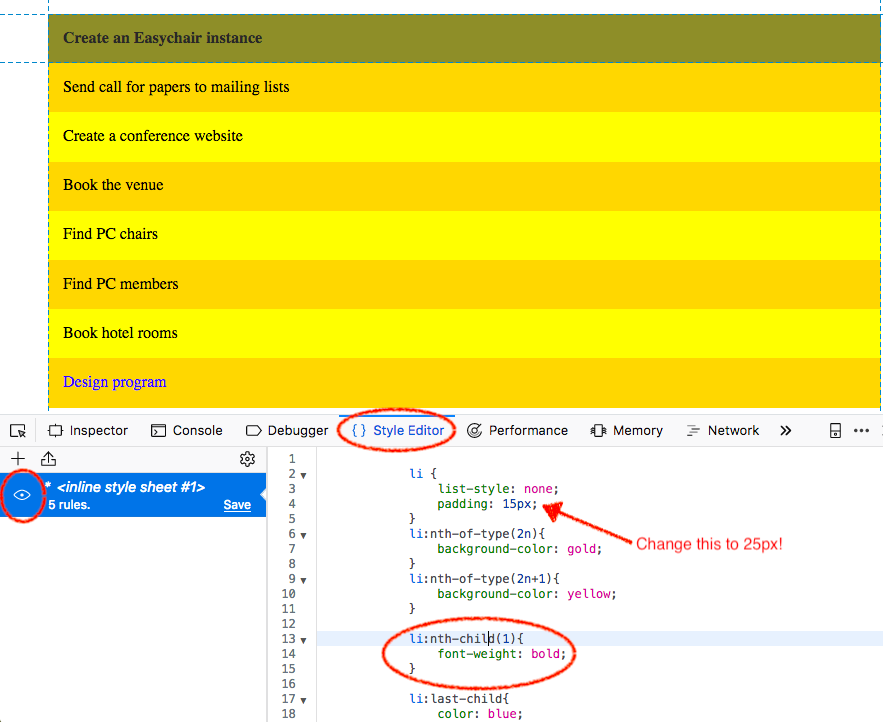
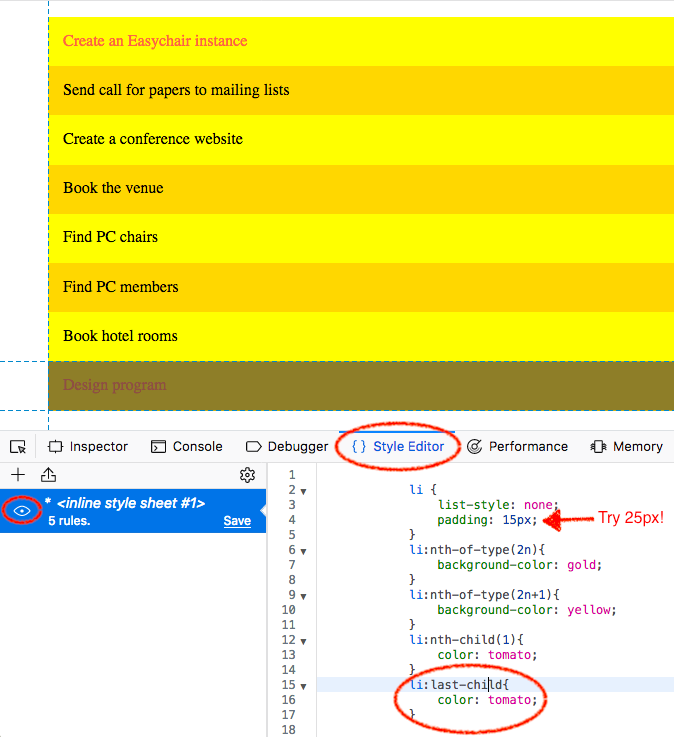
L5 finalized

Changed region(s): [[0.0, 0.0, 1.0, 1.0], [0.8412, 0.8227, 0.9036, 0.8532]]

diff --git a/Lecture-5.md b/Lecture-5.md
@@ -8,6 +8,10 @@
 - [Take-aways of book chapter 3](#take-aways-of-book-chapter-3)
 - [Pseudo-classes](#pseudo-classes)
   - [:bangbang: nth-child(X) and nth-of-type(X)](#bangbang-nth-childx-and-nth-of-typex)
+  - [:bangbang: root](#bangbang-root)
+  - [:bangbang: hover and active](#bangbang-hover-and-active)
+  - [:bangbang: enabled and disabled](#bangbang-enabled-and-disabled)
+  - [:bangbang: not](#bangbang-not)
 - [Pseudo-elements](#pseudo-elements)
 - [Data in CSS](#data-in-css)
 - [Element positioning](#element-positioning)
@@ -95,19 +99,19 @@ selector:pseudo-class {
 
 Imagine you have a list of twenty todo items and you want to alternate the todo items' background color (to make it easier to read them). Two simple ways to go about this are:
 
-- You can "hardcode" the CSS rule of every element, ending up with twenty rules. This is not maintainable.
-- You write two CSS rules (one per background color), assign each to a class and then alternate in the todo items class assignment. Better, than the first option, but the redundancy remains.
+- You can *hardcode* the CSS rule of every element, ending up with twenty rules. This is not maintainable.
+- You write two CSS rules (one per background color), assign each to a class and then alternate in the todo items class assignment. Better than the first option, but the redundancy remains.
 
-Ideally, we only create two CSS rules and solve the rest (alternate assignment of background colors) with pseudo-classes. And that's exactly what we can do with the first two pseudo-classes we introduce next.
+Ideally, we only create two CSS rules and solve the rest (alternate assignment of background colors) with pseudo-classes. And that's exactly what we can do with the two pseudo-classes we introduce next.
 
 ### :bangbang: nth-child(X) and nth-of-type(X)
 
-- `nth-child(X)` is any element that is the Xth **child element** of its parent;
-- `nth-of-type(X)` is any element that is the Xth **sibling** of its type.
+- [`nth-child(X)`](https://developer.mozilla.org/en-US/docs/Web/CSS/:nth-child) is any element that is the Xth **child element** of its parent;
+- [`nth-of-type(X)`](https://developer.mozilla.org/en-US/docs/Web/CSS/:nth-of-type) is any element that is the Xth **sibling** of its type.
 
-In both cases, `X` can be an integer or formula, e.g `2n+1`, where `n` represents a number starting at 0 and incrementing. Instead of `2n` and `2n+`1 we can also use `even` and `odd` as shortcuts.
+In both cases, `X` can be an integer or formula, e.g `2n+1`, where `n` represents a number starting at 0 and incrementing. Instead of `2n` and `2n+1` we can also use `even` and `odd` as shortcuts. If we want to start counting elements in reverse order, we can use the analogous `nth-last-child(X)` and `nth-last-of-type(X)` pseudo-classes.
 
-If we are aiming at the first and/or last child or sibling element, we can also use a different set of pseudo-classes (shortcuts):
+If we are aiming at the first and/or last child or sibling element, we also have additional shortcut pseudo-classes:
 
 | Pseudo-class   | Equivalent to        |
 |----------------|----------------------|
@@ -134,10 +138,10 @@ In the following example both pseudo-classes (`nth-child` and `nth-of-type`) are
                 background-color: yellow;
             }
             li:nth-child(1){
-                font-weight: bold;
+                color: tomato;
             }
             li:last-child{
-                color: blue;
+                color: tomato;
             }
         </style>
     </head>
@@ -156,28 +160,23 @@ In the following example both pseudo-classes (`nth-child` and `nth-of-type`) are
 </html>
 ```
 
-This piece of code is rendered as follows:
+This piece of code is rendered with alternating background colors as was our goal (try it out for yourself!). If we open Firefox's [Style Editor](https://developer.mozilla.org/en-US/docs/Tools/Style_Editor) we now see the following:
 
 ![CSS pseudo-class](img/L5-pseudo-classes.png)
 
-<sub>Firefox browser tab with an open [Style Editor](https://developer.mozilla.org/en-US/docs/Tools/Style_Editor).</sub>
-
-The `li:nth-of-type(2n)` rule says that even list elements have a `gold` background, odd list elements (`2n+1`) have a yellow background. The screenshot above also shows off Firefox's Style Editor: it allows you to not only inspect the CSS, but to also:
+The Style Editor allows us to not only inspect the CSS, but to also:
 
 - switch off the CSS (with a click on the "eye" symbol on the left);
 - hover over a CSS rule to see what part of the rendering it affects (the screenshot was taken when the mouse hovered over `li:nth-child(1)`);
 - **change the CSS** in the editor and view the immediate effect of those changes.
 
-The last point is vital for efficient CSS styling: instead of coding, saving and opening your HTML file in the browser, you can prototype your CSS rules directly in the browser. Try it out for yourself! Just do not forget to then copy the new rules to your original CSS file as those changes are lost when the style editor is closed.
+The last point is vital for efficient CSS styling: instead of coding, saving and opening your HTML file in the browser, you can prototype your CSS rules directly in the browser. Try it out for yourself! Just do not forget to then copy the new rules to your original CSS file as those changes are lost when the Style Editor is closed.
 
+### :bangbang: root
 
+One of the often voiced complaints about CSS used to be the lack of variable support (and thus languages that compile into CSS were born, e.g. [Sass](https://sass-lang.com/)) - in the example above :point_up:, we set the same color value of `tomato` in two CSS rules (if you are interested in why we have such a seemingly random collection of color names on the web, [head over to this Wikipedia overview](https://en.wikipedia.org/wiki/X11_color_names)). If we now decide to change that color value, we would have to manually walk over all style sheets and alter it. Clearly, variables (i.e. *entities containing specific values that can be reused*) would be very helpful.
 
-
-
-
-One of the often voiced complaints about CSS used to be the lack of variable support (and thus languages that compile into CSS were born, e.g. [Sass](https://sass-lang.com/)) - in the example above, we set the same value of `#00ff00;` on two properties. If we now decide to change that color value, we would have to manually walk over all style sheets and alter it. Clearly, variables (i.e. *entities containing specific values that can be reused*) would be very helpful.
-
-In fact, since 2015/2016 (yes! it took that long), [CSS variables](https://developer.mozilla.org/en-US/docs/Web/CSS/Using_CSS_variables) are supported in all major browsers. Here is how they work:
+In fact, since 2015/2016 (*yes, it took that long*), [CSS variables](https://developer.mozilla.org/en-US/docs/Web/CSS/Using_CSS_variables) are supported in all major browsers. Here is how they work :point_down::
 
 ```html
 <!DOCTYPE html>
@@ -185,38 +184,51 @@ In fact, since 2015/2016 (yes! it took that long), [CSS variables](https://devel
     <head>
         <style>
             :root {
-                --main-color: #00ff00;
+                --highlight-color: tomato;
             }
-            p:nth-child(2){
-                color: red;
+            li {
+                list-style: none;
+                padding: 15px;
             }
-            p:nth-of-type(2){
-                background-color: var(--main-color);
+            li:nth-of-type(2n){
+                background-color: gold;
             }
-            div {
-                color: var(--main-color);
+            li:nth-of-type(2n+1){
+                background-color: yellow;
+            }
+            li:nth-child(1){
+                color: var(--highlight-color);
+            }
+            li:last-child{
+                color: var(--highlight-color);
             }
         </style>
     </head>
     <body>
-
-        <main> <!-- parent of the <h2> and <p>'s -->
-            <h2>Todos</h2>
-            <p>Today's todos</p>    <!-- p sibling, also the second child of <main> -->
-            <p>Tomorrow's todos</p> <!-- p sibling -->
-            <p>Saturday's todos</p> <!-- p sibling -->
-            <p>Sunday's todos</p>   <!-- p sibling -->
-        </main>
+        <ul>
+            <li>Create an Easychair instance</li>
+            <li>Send call for papers to mailing lists</li>
+            <li>Create a conference website</li>
+            <li>Book the venue</li>
+            <li>Find PC chairs</li>
+            <li>Find PC members</li>
+            <li>Book hotel rooms</li>
+            <li>Design program</li>
+        </ul>
     </body>
 </html>
 ```
 
-In this example, we want to create a number of so-called global CSS variables, i.e. they should be available to all elements in the DOM tree. For this reason, we make use of the pseudo-element `:root` which represents the `<html>` element. Variables are defined with the custum prefix `--` and can be accessed using the `var()` functionality.
+:point_up: In this example, we create a global CSS variable, i.e. one that is available to all elements in the DOM tree. For this reason, we make use of the pseudo-element `:root` which represents the `<html>` element. Variables are defined with the custum prefix `--` and can be accessed using the `var()` functionality.
 
-In the beginning we mentioned as one of the document external factors mouse movements that we can make our elements react to. Two popular pseudo-classes in this category are `:hover` and `:active`:
+### :bangbang: hover and active
+
+In the beginning we mentioned mouse movements as one of the document external factors that we can make our elements react to. Two popular pseudo-classes in this category are `:hover` and `:active`:
 
 - `:hover` is a selector that becomes active when a mouseover on the element occurs.
 - `:active` is a selector that becomes active when the element is currently *being active* (usually that means clicked).
+
+Here is a simple example :point_down::
 
 ```html
 <!DOCTYPE html>
@@ -252,14 +264,16 @@ In the beginning we mentioned as one of the document external factors mouse move
 </html>
 ```
 
-While this may seem not very impressive, `:hover` can also easily employed to create image galleries (preview vs. full image) as well as pure CSS dropdown menus (hide the menu items apart from the "header" and only reveal them when the mouse hovers over the header).
+While this toy example is not very impressive, `:hover` can easily be employed to create image galleries (preview vs. full image) as well as pure CSS dropdown menus (hide the menu items apart from the header and only reveal them when the mouse hovers over the header).
 
-Particularly important for games may be the pseudo-classes `:enabled` and `:disabled`; imagine a game item that is only available sometimes (in our demo game for instance once a letter has been clicked once it is no longer possible to click/select it again). And of course this information should be visually conveyed to the user:
+### :bangbang: enabled and disabled
+
+Particularly important for board game applications such as those in our assignments may be the pseudo-classes `:enabled` and `:disabled`. Imagine a game item that is only available sometimes; in our demo game for instance, once a letter has been clicked it is no longer possible to select it again. And of course this information should be visually conveyed to the user:
 
 - `:enabled` is an element that can be clicked or selected.
 - `:disabled` is an element that cannot be clicked or selected.
 
-An example:
+An example :point_down::
 
 ```html
 <!DOCTYPE html>
@@ -306,7 +320,9 @@ An example:
 </html>
 ```
 
-Here you can see that it is possible to combine pseudo-classes, in this case we use `button:enabled:active` and define a style that an enabled **and** active button should have. Once the button is disabled, its style will not change anymore, no matter the mouse movements.
+:point_up: Here you can see that it is possible to combine pseudo-classes, in this case we use `button:enabled:active` and define a style that an enabled **and** active button should have. Once the button is disabled, its style will not change anymore, no matter the mouse movements.
+
+### :bangbang: not
 
 `:not(X)` is a pseudo-class that matches all elements that are not represented by selector X. Let's look at this example:
 
